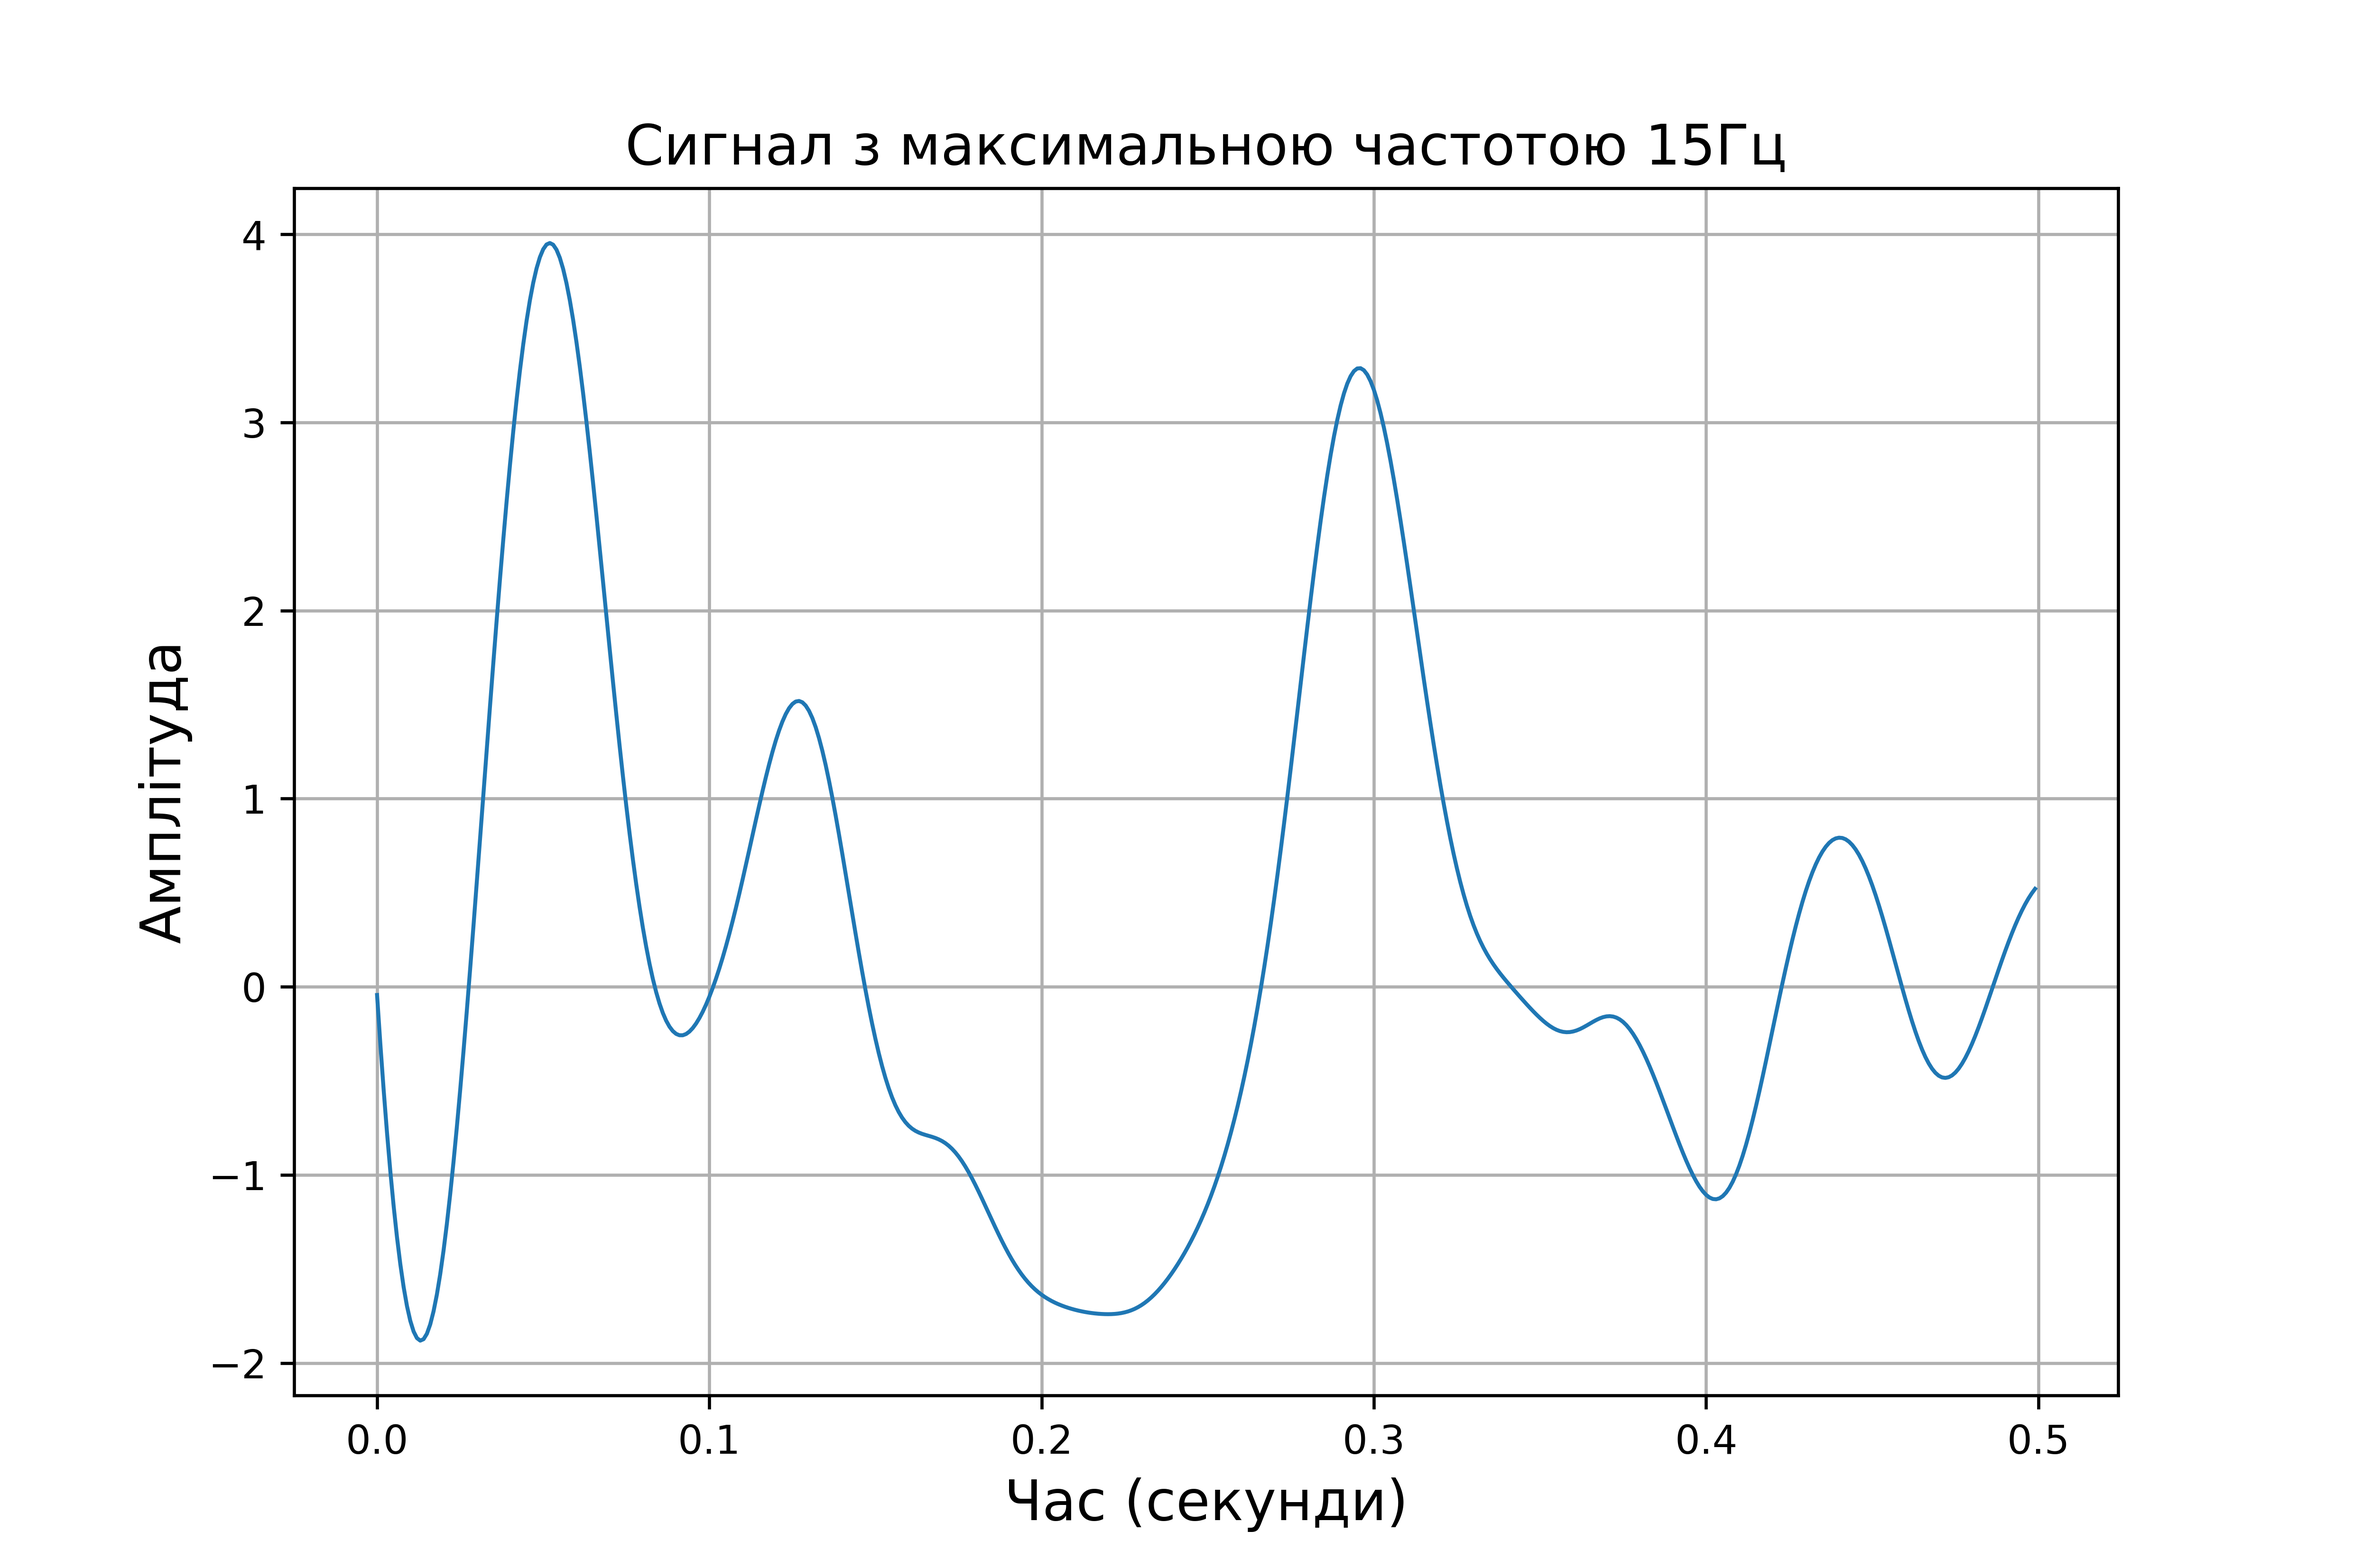
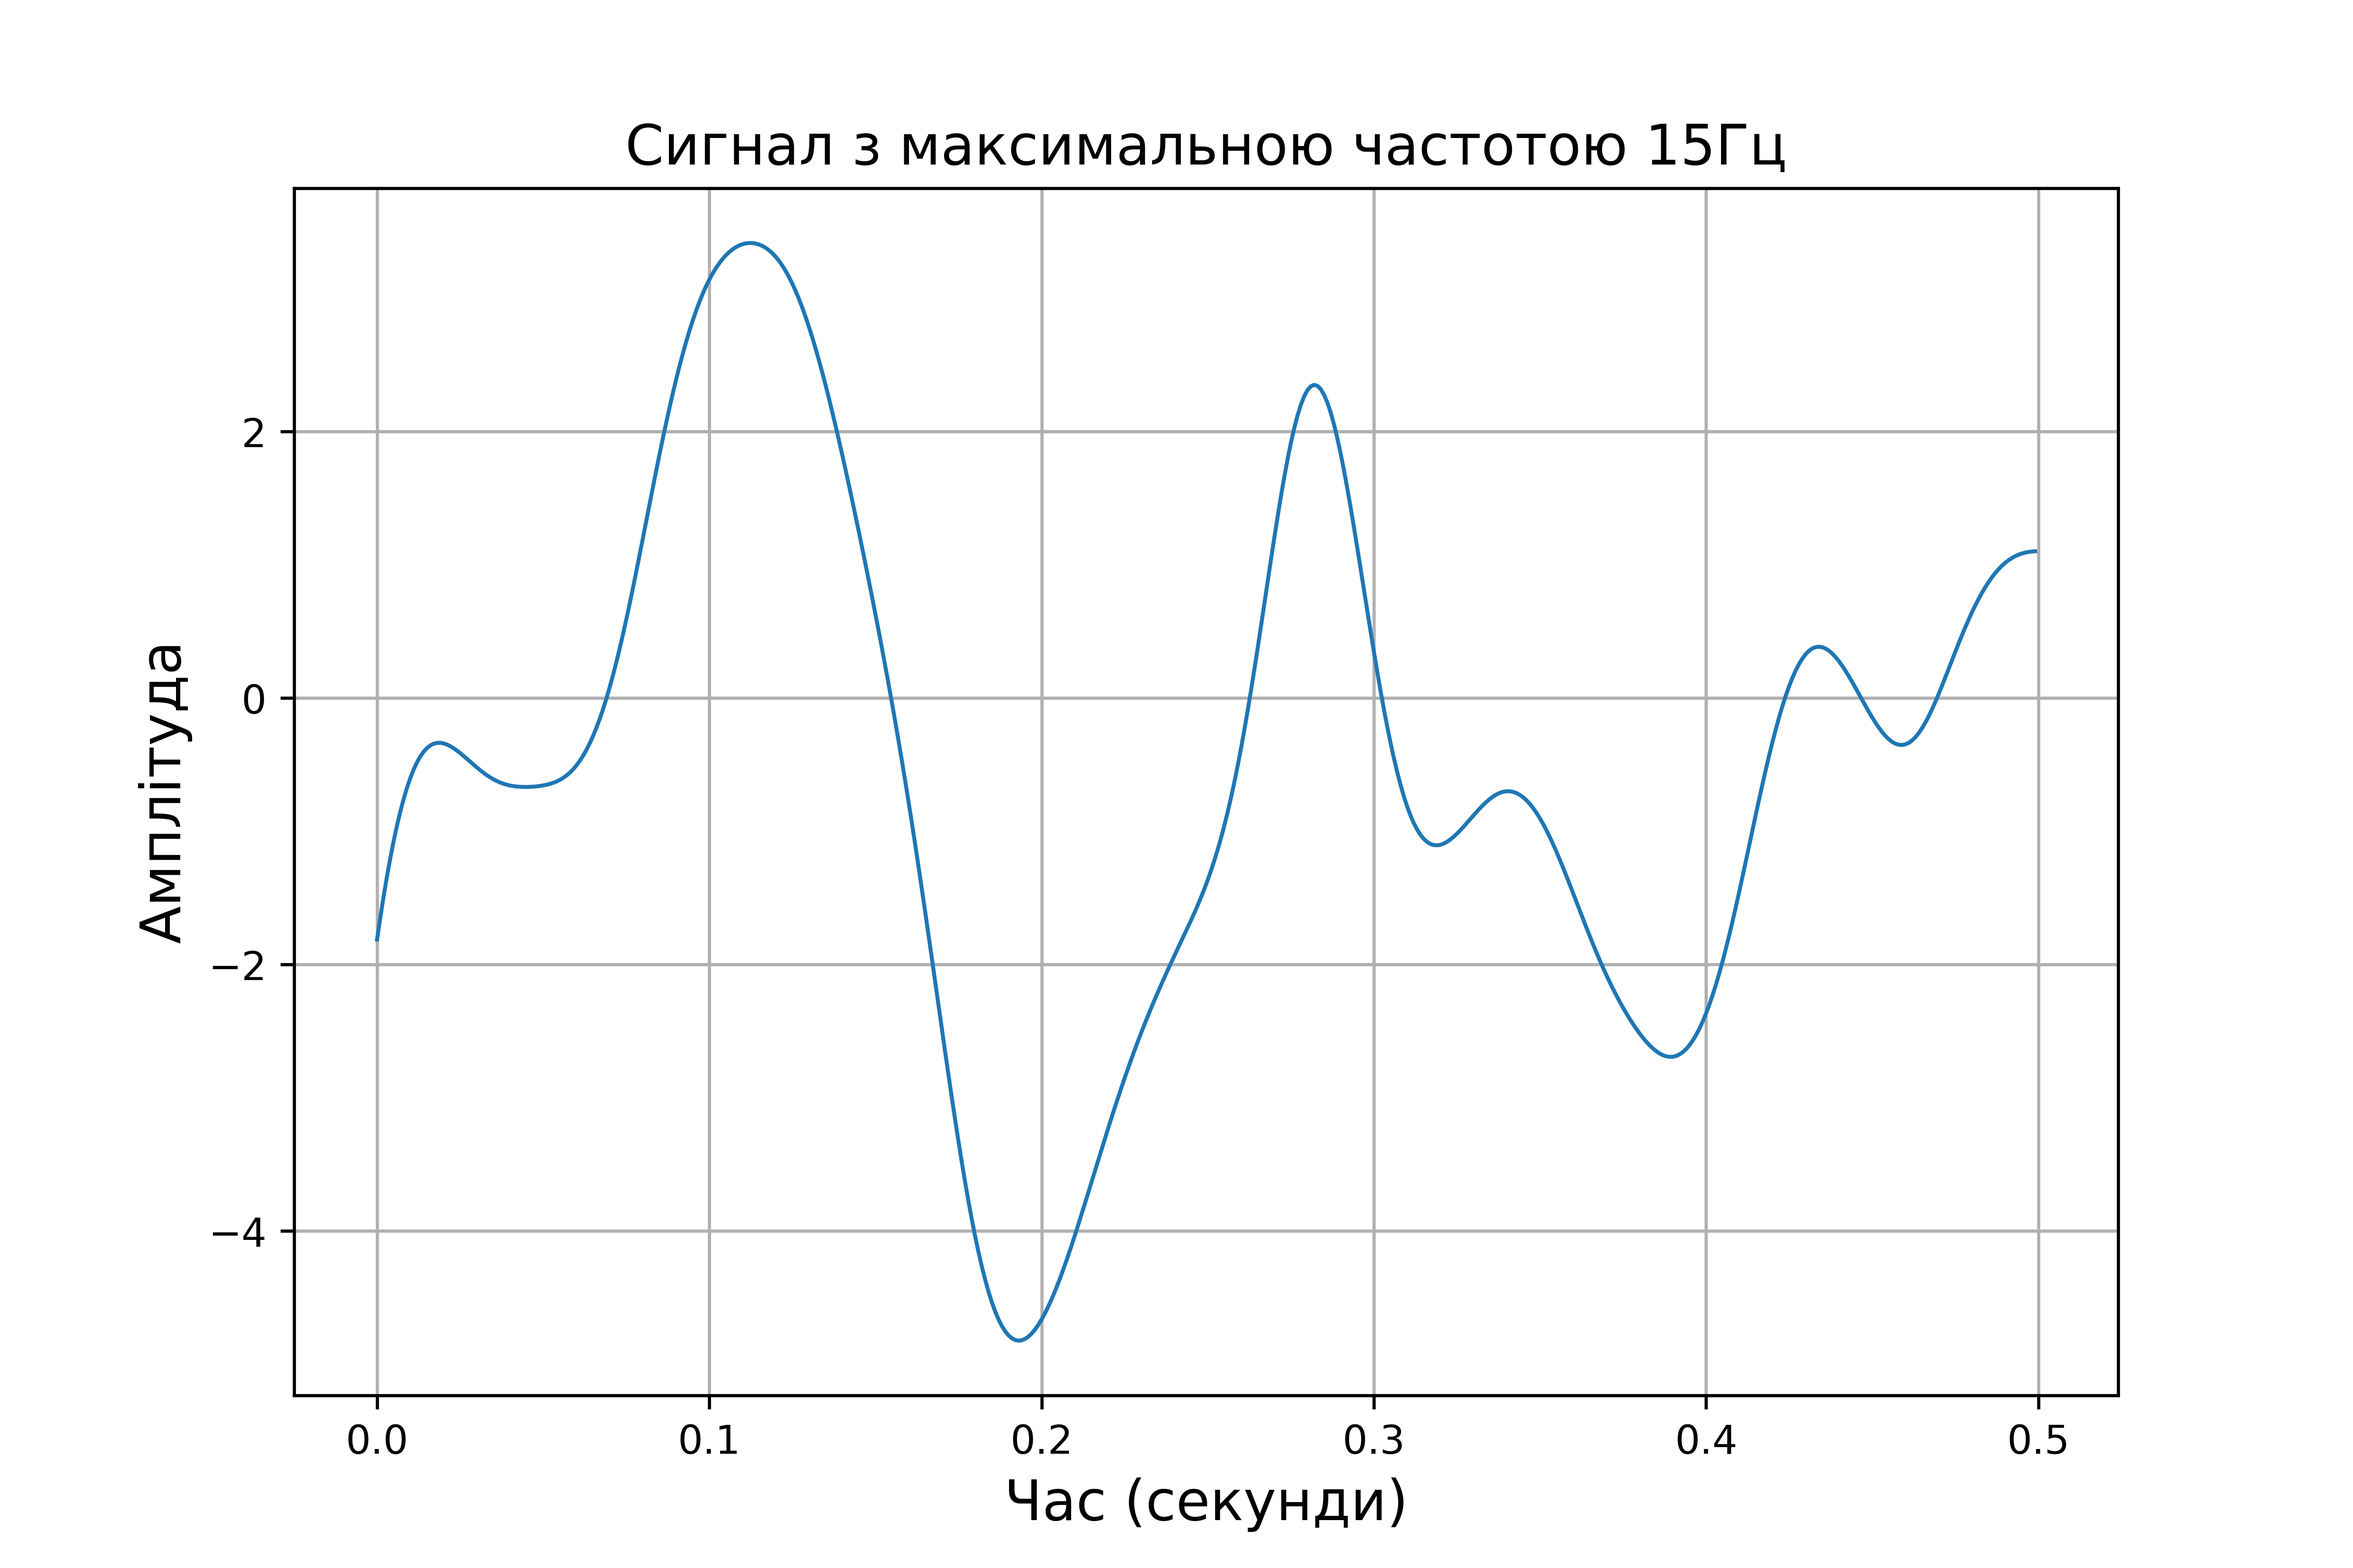
Signal processing, 2

diff --git a/SignalProcessing/SignalProcessing.py b/SignalProcessing/SignalProcessing.py
@@ -14,6 +14,40 @@ sos = signal.butter(3, w, 'low', output='sos')
 
 filtered_signal = signal.sosfiltfilt(sos, random_signal)
 
+discrete_signals = []
+discrete_spectrums = []
+restored_signals = []
+variances = []
+snr_values = []
+
+var_original = np.var(filtered_signal)
+
+for Dt in [2, 4, 8, 16]:
+
+    discrete_signal = np.zeros(n)
+
+    for i in range(0, round(n / Dt)):
+        discrete_signal[i * Dt] = filtered_signal[i * Dt]
+
+    discrete_signals += [list(discrete_signal)]
+
+    #спектр дискретного сигналу
+    spectrum = fft.fft(discrete_signal)
+    spectrum_shifted = np.abs(fft.fftshift(spectrum)) / n
+    discrete_spectrums += [list(spectrum_shifted)]
+
+    w = 22 / (Fs / 2)   # F_filter = 22 Гц для варіанту 7
+    sos = signal.butter(3, w, 'low', output='sos')
+
+    restored = signal.sosfiltfilt(sos, discrete_signal)
+    restored_signals += [list(restored)]
+    #похибка
+    error = restored - filtered_signal
+    var_error = np.var(error)
+
+    variances += [var_error]
+    snr_values += [var_original / var_error]
+
 def plot_signal(x, y, title, xlabel, ylabel):
     fig, ax = plt.subplots(figsize=(21/2.54, 14/2.54))
     ax.plot(x, y, linewidth=1)
@@ -24,6 +58,22 @@ def plot_signal(x, y, title, xlabel, ylabel):
     fig.savefig('./figures/' + title + '.png', dpi=600)
     plt.close(fig)
 
+fig, ax = plt.subplots(2, 2, figsize=(21/2.54, 14/2.54))
+
+s = 0
+for i in range(0, 2):
+    for j in range(0, 2):
+        ax[i][j].plot(time, discrete_signals[s], linewidth=1)
+        ax[i][j].set_title(f'Dt = {[2,4,8,16][s]}', fontsize=14)
+        ax[i][j].grid(True)
+        s += 1
+
+fig.supxlabel("Час (секунди)", fontsize=14)
+fig.supylabel("Амплітуда", fontsize=14)
+fig.suptitle("Дискретизовані сигнали", fontsize=14)
+fig.tight_layout(rect=[0, 0.03, 1, 0.95])
+fig.savefig('./figures/Дискретизований сигнал.png', dpi=600)
+plt.close(fig)
 
 plot_signal(time, filtered_signal,
             "Сигнал з максимальною частотою 15Гц",
@@ -40,3 +90,49 @@ plot_signal(freqs_shifted, spectrum_shifted,
             "Спектр сигналу",
             "Частота",
             "Амплітуда спектру")
+
+fig, ax = plt.subplots(2, 2, figsize=(21/2.54, 14/2.54))
+
+s = 0
+for i in range(0, 2):
+    for j in range(0, 2):
+        ax[i][j].plot(freqs_shifted, discrete_spectrums[s], linewidth=1)
+        ax[i][j].set_title(f'Dt = {[2,4,8,16][s]}', fontsize=14)
+        ax[i][j].grid(True)
+        s += 1
+
+fig.supxlabel("Частота (Гц)", fontsize=14)
+fig.supylabel("Амплітуда спектру", fontsize=14)
+fig.suptitle("Спектри дискретизованих сигналів", fontsize=14)
+fig.tight_layout(rect=[0, 0.03, 1, 0.95])
+fig.savefig('./figures/Спектр дискретизованого сигналу.png', dpi=600)
+plt.close(fig)
+
+fig, ax = plt.subplots(2, 2, figsize=(21/2.54, 14/2.54))
+
+s = 0
+for i in range(0, 2):
+    for j in range(0, 2):
+        ax[i][j].plot(time, restored_signals[s], linewidth=1)
+        ax[i][j].set_title(f'Dt = {[2,4,8,16][s]}', fontsize=14)
+        ax[i][j].grid(True)
+        s += 1
+
+fig.supxlabel("Час (секунди)", fontsize=14)
+fig.supylabel("Амплітуда", fontsize=14)
+fig.suptitle("Відновлені сигнали", fontsize=14)
+fig.tight_layout(rect=[0, 0.03, 1, 0.95])
+fig.savefig('./figures/Відновлений сигнал.png', dpi=600)
+plt.close(fig)
+
+Dt_values = [2, 4, 8, 16]
+
+plot_signal(Dt_values, variances,
+            "Залежність дисперсії від кроку дискретизації",
+            "Крок дискретизації",
+            "Дисперсія")
+
+plot_signal(Dt_values, snr_values,
+            "Залежність SNR від кроку дискретизації",
+            "Крок дискретизації",
+            "SNR")
